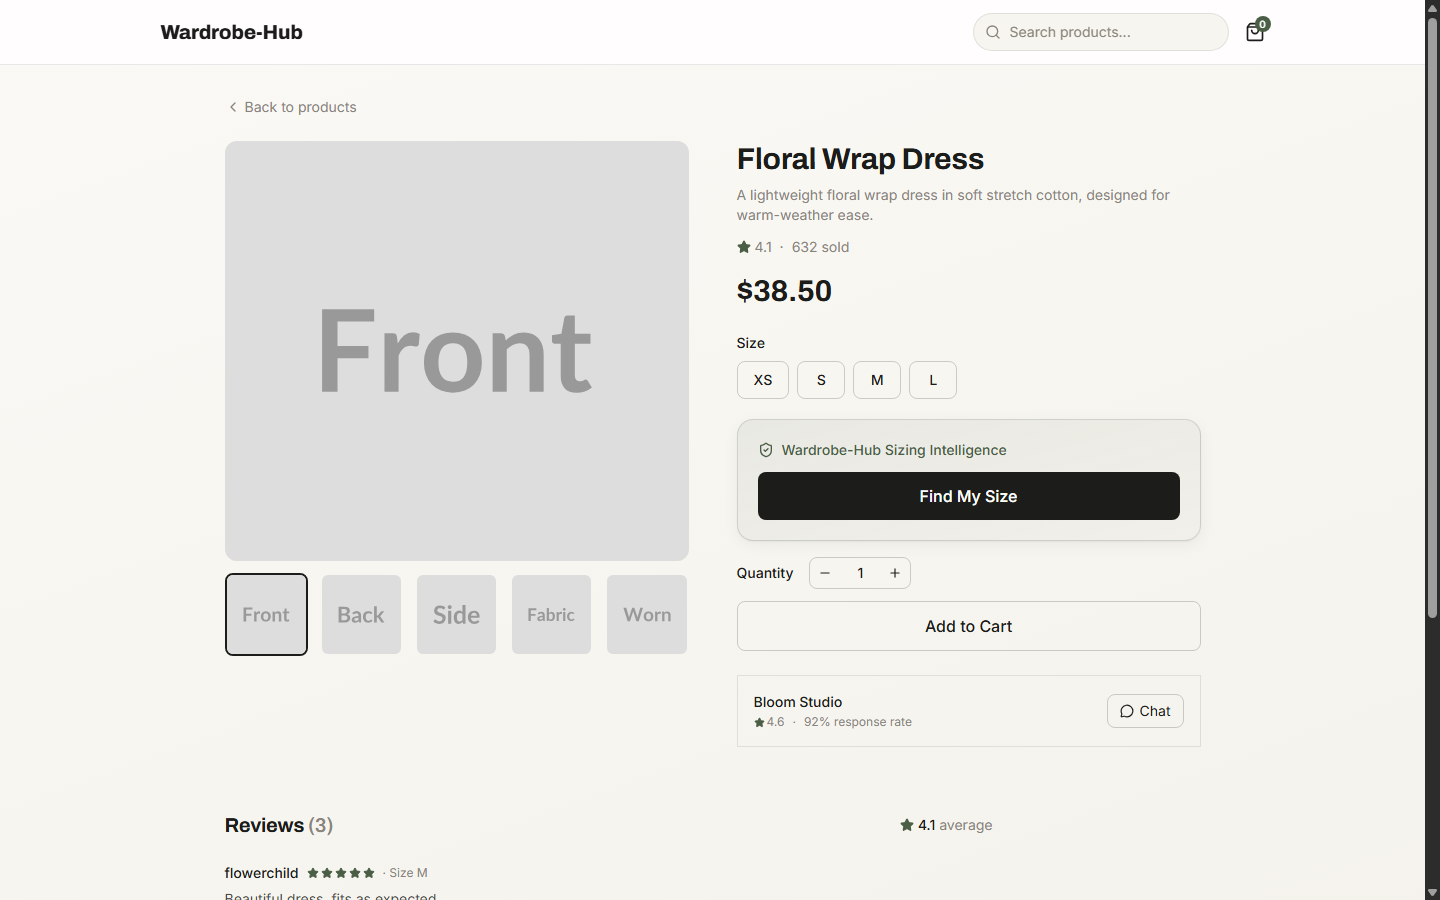
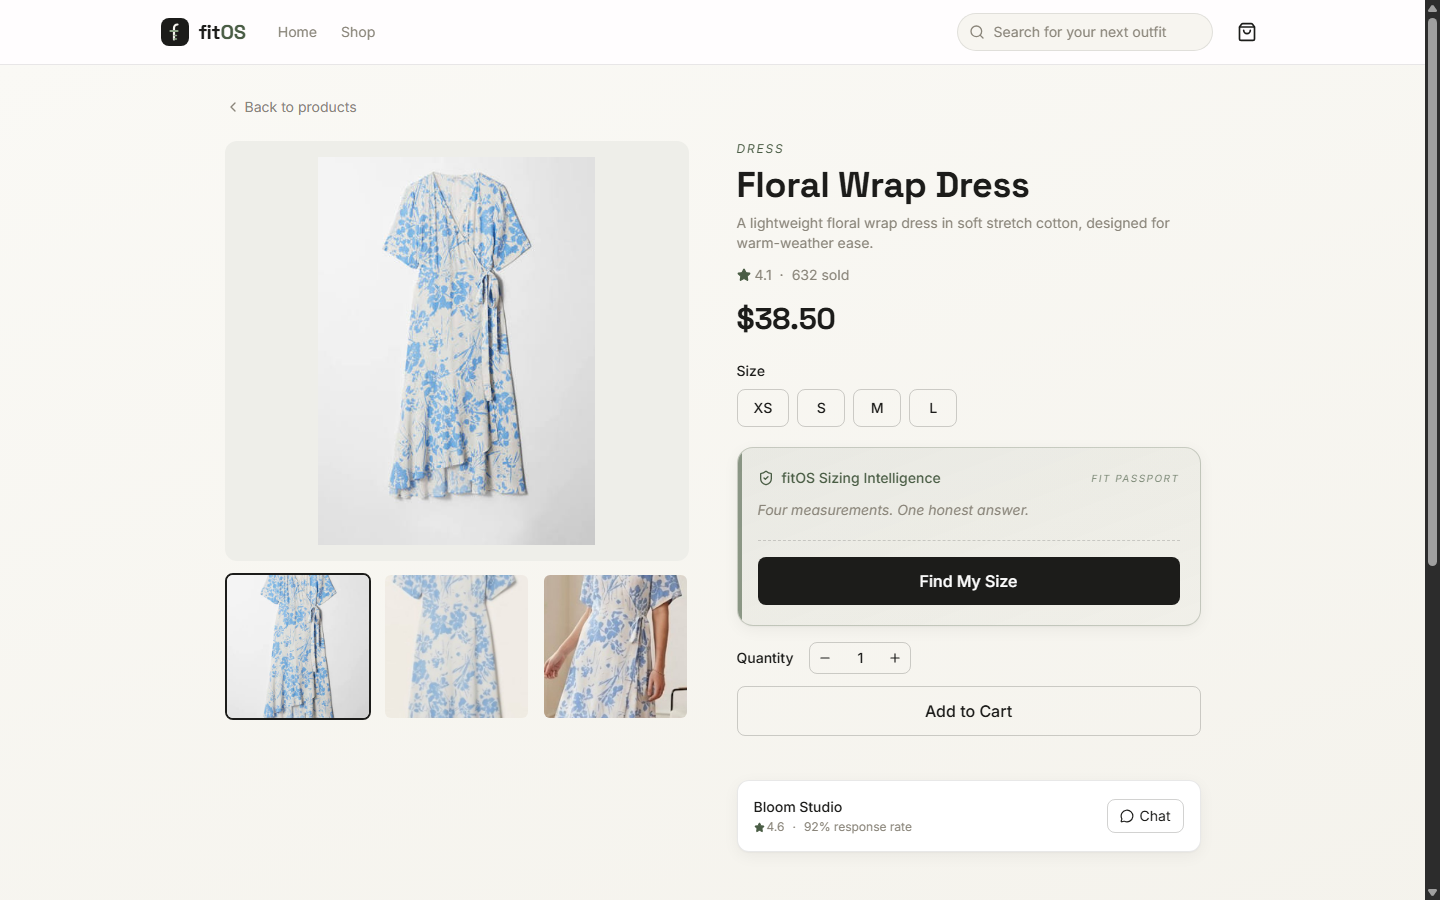
docs: refresh screenshots and walkthrough for the new UI
New landing page and real product photos landed on main; re-capture all
screenshots, add the landing shot, and point the walkthrough at the new
routes (landing on /, shop on /shop). Repo map now mentions cart.

diff --git a/README.md b/README.md
@@ -15,9 +15,9 @@ The **deterministic recommendation engine** (`core/`), the **FastAPI backend** (
 ```
 core/recommender.py    # scoring engine: ease bands, stretch rules, review bias
 core/confidence.py     # confidence blend (fit 45% / margin 20% / data 20% / reviews 15%)
-backend/               # FastAPI app: /api/products, /api/recommend, /api/explain, /api/seller/*
+backend/               # FastAPI app: /api/products, /api/recommend, /api/explain, /api/seller/*, /api/cart
 backend/app/ai/        # Gemma client with fallback ladder (vLLM -> Fireworks -> cache -> template)
-frontend/              # React storefront + fit modal + seller dashboard (Vite + Tailwind)
+frontend/              # React landing + storefront + fit modal + cart + seller dashboard (Vite + Tailwind)
 data/seed/             # 3 demo products + 3 rehearsed personas (load-bearing: pinned by tests)
 scripts/try_recommender.py         # poke the engine by hand
 docs/recommendation_contract.md    # FROZEN response contract for frontend/backend
@@ -27,15 +27,17 @@ docker-compose.yml     # cp .env.example .env && docker compose up -> API :8000 
 
 ## What it looks like
 
+![Landing page](docs/screenshots/landing.png)
+
 | Buyer | Seller |
 |---|---|
-| ![Storefront](docs/screenshots/storefront.png) | ![Seller dashboard](docs/screenshots/seller_overview.png) |
+| ![Shop](docs/screenshots/storefront.png) | ![Seller dashboard](docs/screenshots/seller_overview.png) |
 | ![Product page with Find My Size](docs/screenshots/product_page.png) | ![Dress fit-risk drill-down](docs/screenshots/seller_dress_drilldown.png) |
 
 ## 60-second walkthrough
 
-1. `cp .env.example .env && docker compose up` — storefront on :5173, API on :8000. Works fully offline.
-2. Open the **Floral Wrap Dress** → **Find My Size** → bust 90 / waist 72 → size **L** with a fit score, per-dimension fit bars, and a "runs small" caveat mined from reviews (without the review signal it would say M).
+1. `cp .env.example .env && docker compose up` — landing page on :5173 (**Browse the shop**), API on :8000. Works fully offline.
+2. In the shop, open the **Floral Wrap Dress** → **Find My Size** → bust 90 / waist 72 → size **L** with a fit score, per-dimension fit bars, and a "runs small" caveat mined from reviews (without the review signal it would say M).
 3. Open another product — the **Fit Passport** reuses your measurements: same body, different garment, different (correct) size.
 4. Visit `/seller` — the dress reads **HIGH risk**: 26 fit complaints in 60 reviews, a missing hips column, complaint clusters by body area, and the mined quotes behind the numbers.
 5. The **Review mining** strip reports the actual analysis provenance (AMD vLLM when configured, keyword fallback offline) — it is never hardcoded.
